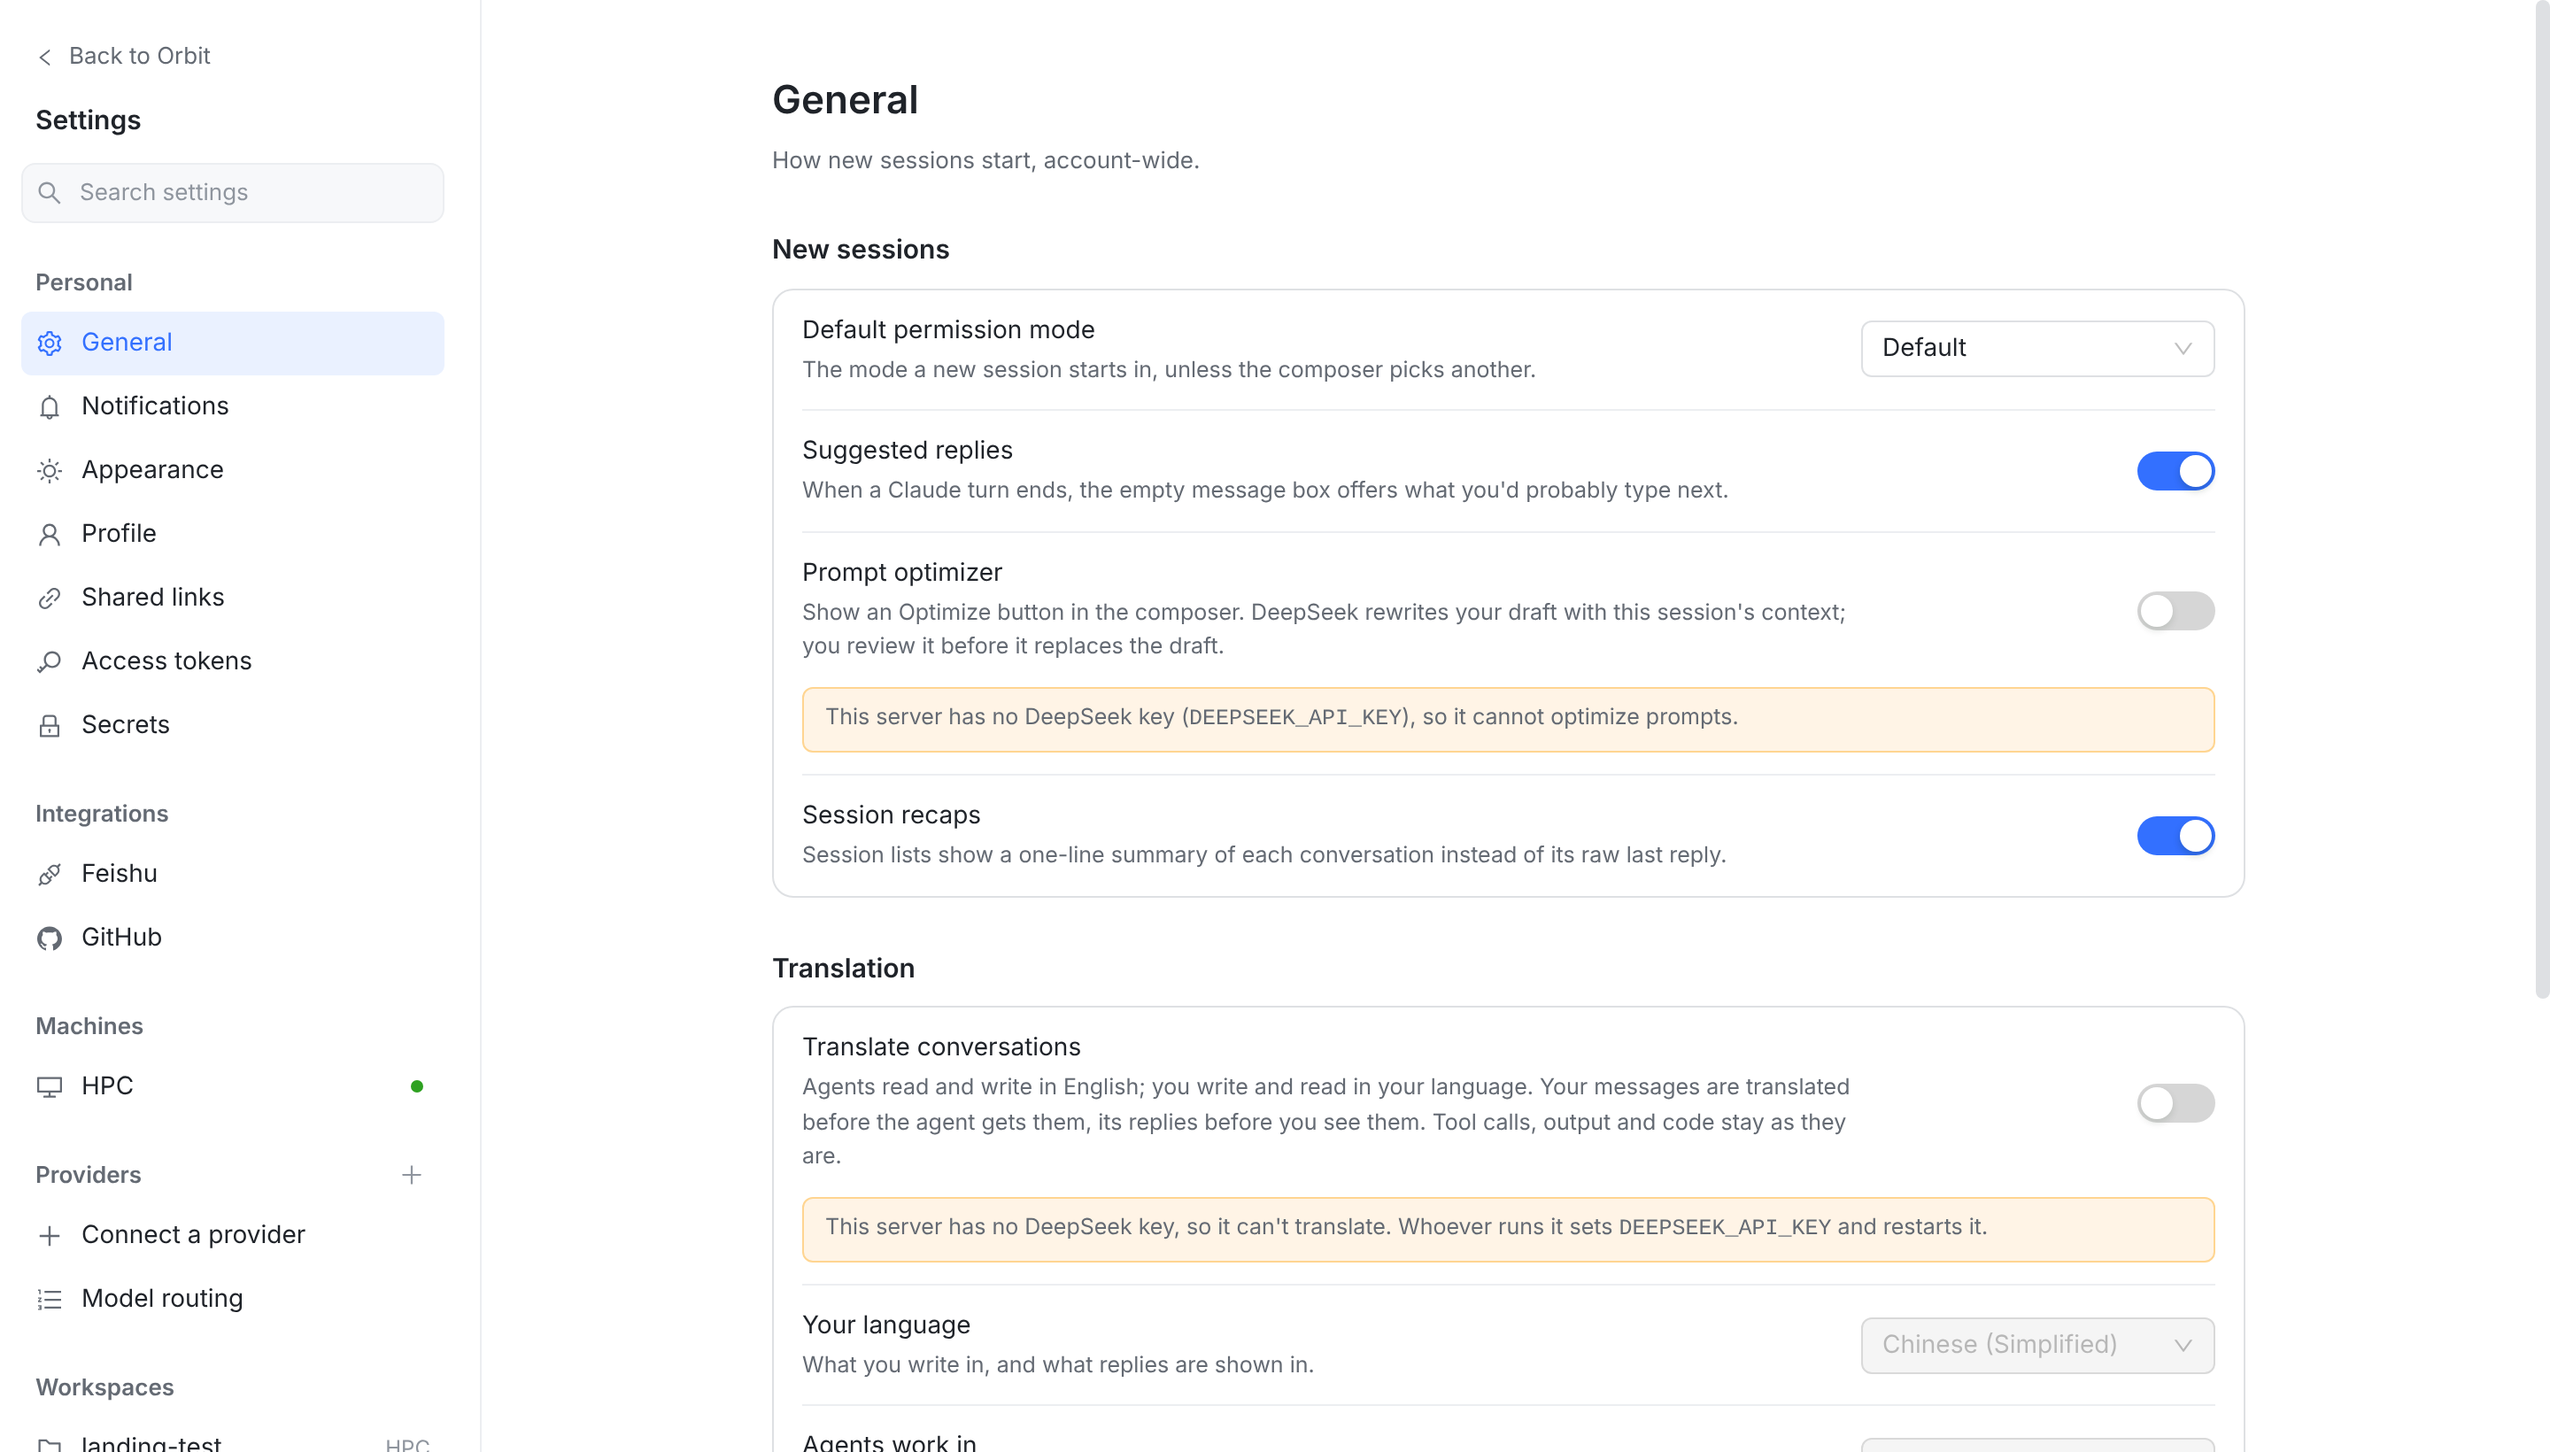
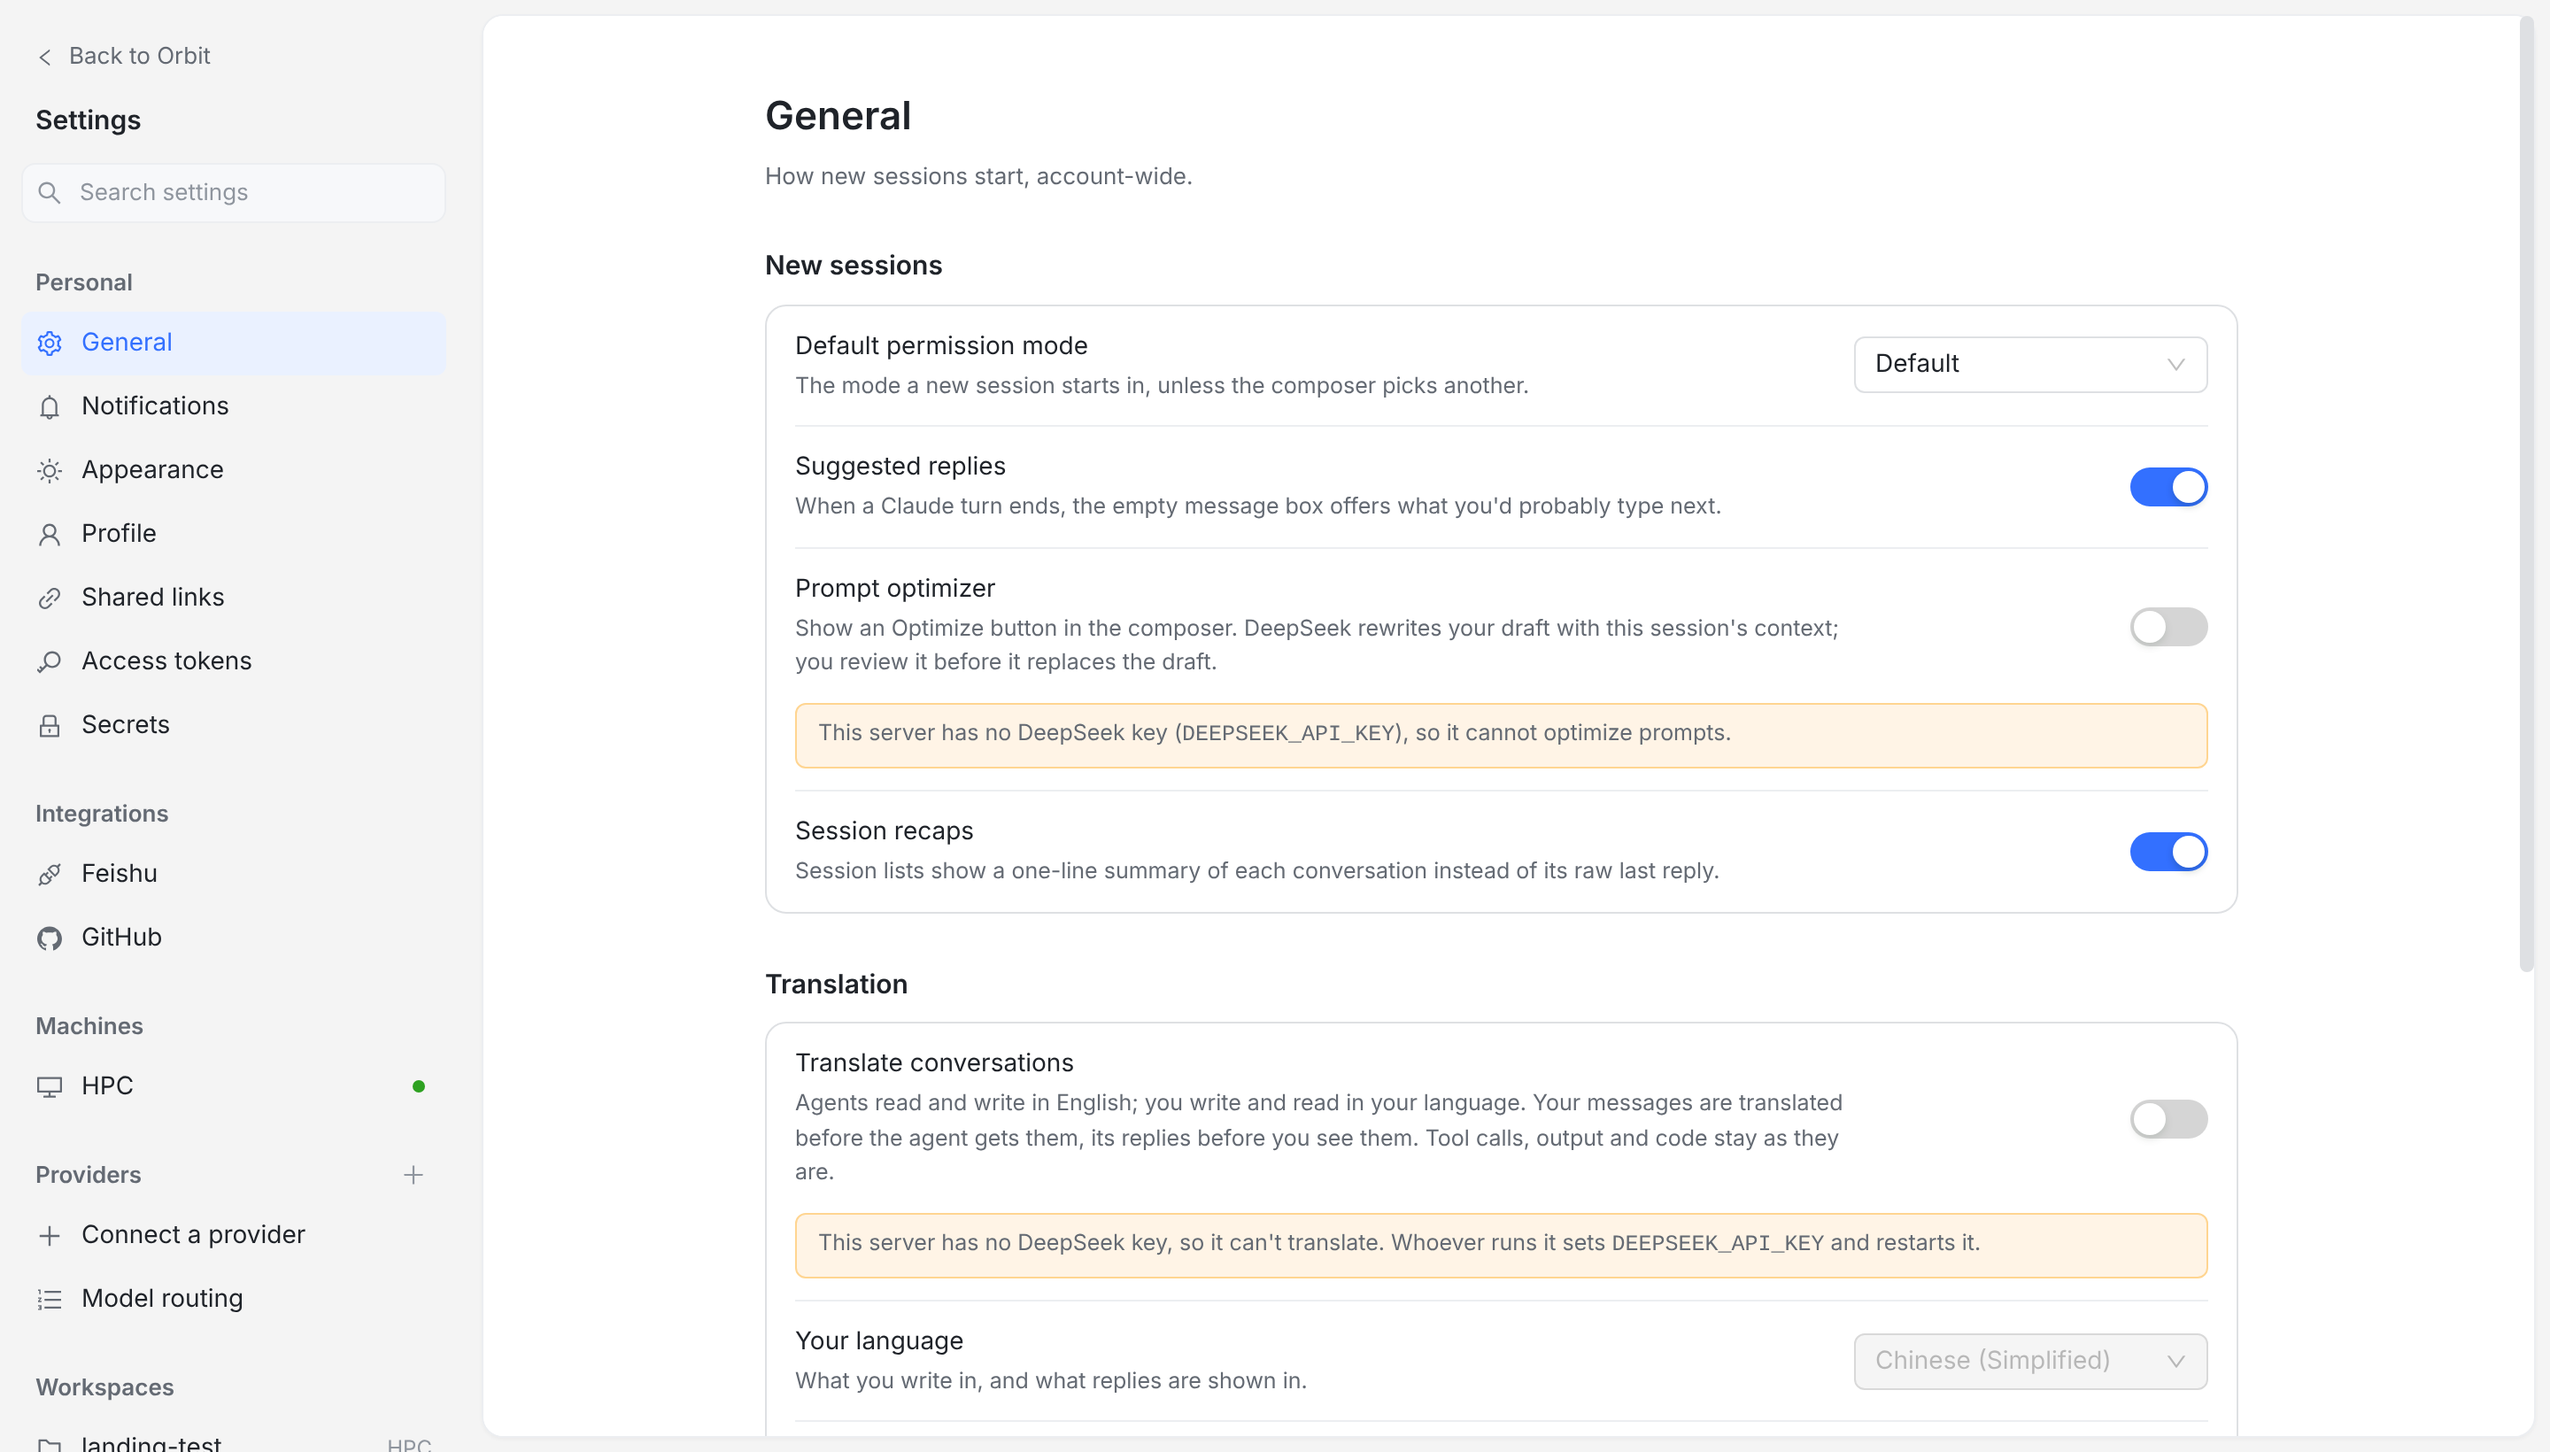
docs(mocks): right-column kit shoots Wiki, Settings and Help, and skeletons for the rest
Scenes for the Wiki (docked chat, entry drawer, narrow), Settings and the help drawer over the fixtures, and skeleton pages of Scheduled, Drive and a project's task panel rendered with the built CSS, where the fixtures have no data for them.

diff --git a/docs/mocks/right-column-window/capture/skeleton/drive.html b/docs/mocks/right-column-window/capture/skeleton/drive.html
@@ -1,0 +1,1 @@
+<!doctype html><html><head><link rel="stylesheet" href="file:///mnt/tmp/rcw-mock/dist-c2/assets/app-BIZ5qjxL.css"><link rel="stylesheet" href="file:///mnt/tmp/rcw-mock/dist-c2/assets/TaskDependencyGraph-DLioOiRN.css"></head><body style="--app-vh:820px"><div id="root"><div class="app-shell"><aside class="app-nav" style="width:264px"><div style="padding:20px;font:600 20px Inter">Orbit</div></aside><main class="app-main"><div class="app-view"><div class="files-page"><header class="files-head"><h1>Drive</h1></header><div class="files-body"><nav class="files-tree"><div class="files-tree-row active">Drive</div><div class="files-tree-row">notes</div></nav><section class="files-list-wrap"><table class="files-list"><tr><td>notes.md</td><td>2 KB</td></tr><tr><td>plan.pdf</td><td>120 KB</td></tr></table></section><aside class="files-pane"><h2 class="files-pane-name">notes.md</h2><div class="files-pane-kind">2 KB</div></aside></div></div></div></main></div></div></body></html>

diff --git a/docs/mocks/right-column-window/capture/skeleton/sched.html b/docs/mocks/right-column-window/capture/skeleton/sched.html
@@ -1,0 +1,1 @@
+<!doctype html><html><head><link rel="stylesheet" href="file:///mnt/tmp/rcw-mock/dist-c2/assets/app-BIZ5qjxL.css"><link rel="stylesheet" href="file:///mnt/tmp/rcw-mock/dist-c2/assets/TaskDependencyGraph-DLioOiRN.css"></head><body style="--app-vh:820px"><div id="root"><div class="app-shell"><aside class="app-nav" style="width:264px"><div style="padding:20px;font:600 20px Inter">Orbit</div></aside><main class="app-main"><div class="app-view"><div class="sched-page"><div class="sched-list"><div class="sched-head"><h1>Scheduled</h1></div><p style="color:#666">Daily digest · every day 9:00</p></div><div class="sched-resizer"></div><aside class="sched-inspector"><h2 class="sched-inspector-title">Daily digest</h2><p>Runs every day at 9:00 in landing-test.</p></aside></div></div></main></div></div></body></html>

diff --git a/docs/mocks/right-column-window/capture/skeleton/project.html b/docs/mocks/right-column-window/capture/skeleton/project.html
@@ -1,0 +1,1 @@
+<!doctype html><html><head><link rel="stylesheet" href="file:///mnt/tmp/rcw-mock/dist-c2/assets/app-BIZ5qjxL.css"><link rel="stylesheet" href="file:///mnt/tmp/rcw-mock/dist-c2/assets/TaskDependencyGraph-DLioOiRN.css"></head><body style="--app-vh:820px"><div id="root"><div class="app-shell"><aside class="app-nav" style="width:264px"><div style="padding:20px;font:600 20px Inter">Orbit</div></aside><main class="app-main"><div class="app-view app-view--doc"><h1 class="page-title">Protected-branch landing drills</h1><p>Project page content…</p></div></main><div class="project-task-panel"><aside class="task-detail-panel"><div class="tdp-head" style="padding:20px"><b>Run 2a: failing required check</b></div></aside></div></div></div></body></html>
